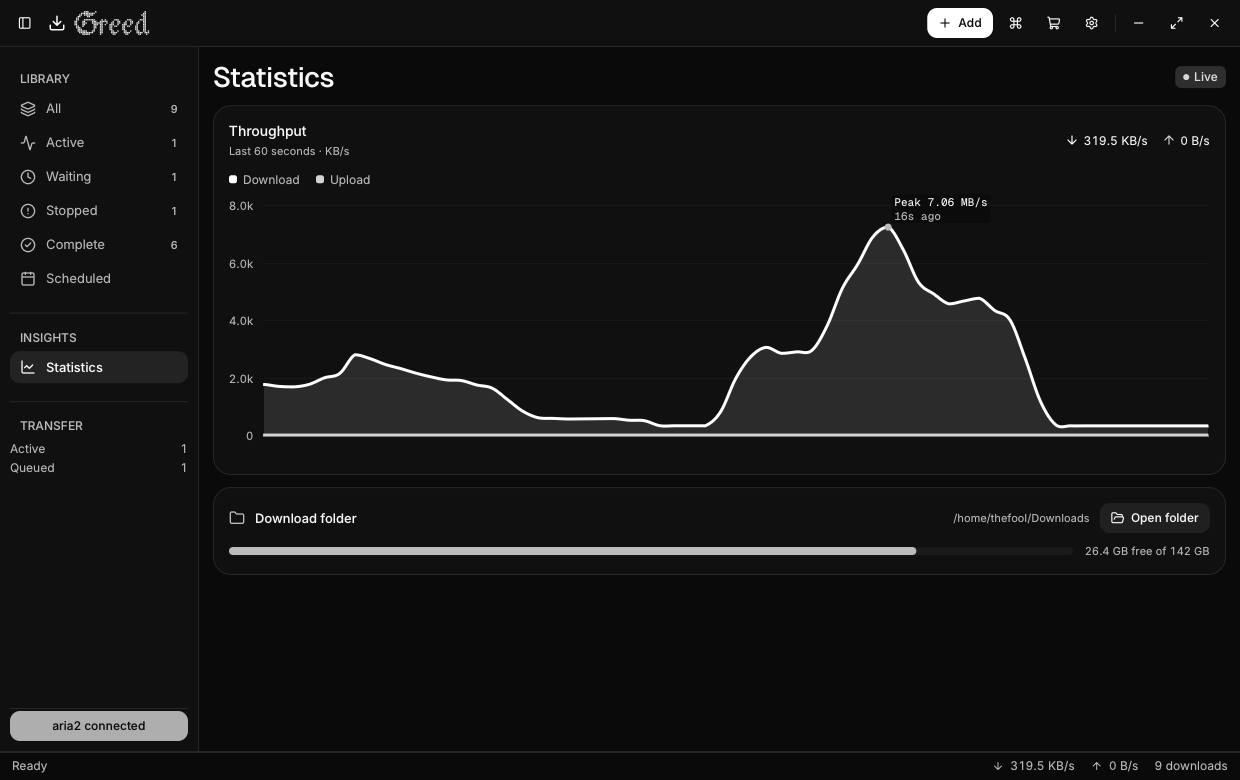
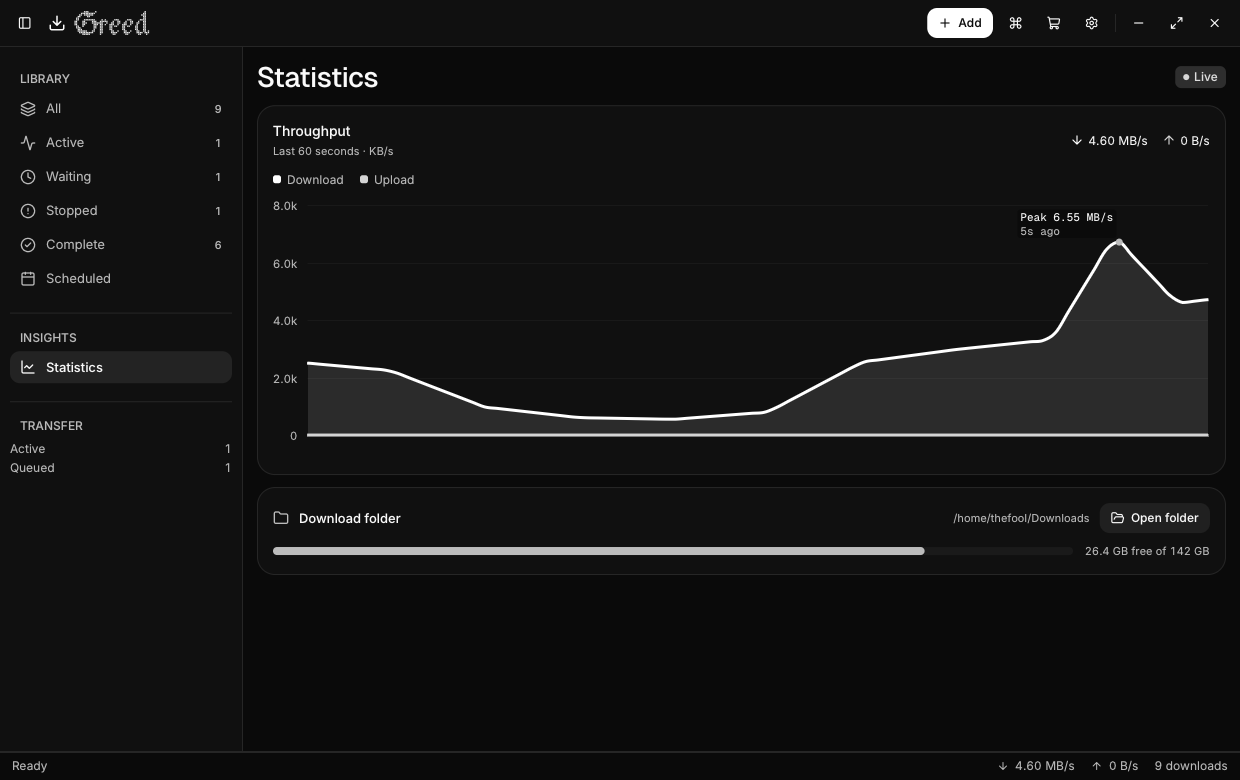
Show the aria2 status only while it is offline
The always-on solid pill was the loudest element in the sidebar for a
state that is normally healthy. Now a red outline button appears only
when the engine is down, and clicking it reconnects. Refresh the README
screenshots without the old pill.

diff --git a/src/ui.c b/src/ui.c
@@ -100,7 +100,6 @@ typedef struct {
     int fade_count;
     int page_key;
     float page_fade;
-    float conn_fade;
     bool show_palette;
     bool show_remove;
     int font_pick;
@@ -1516,9 +1515,8 @@ static void sidebar(App *a, cui_ctx *ui, float width) {
     bool mac = mac_chrome(a);
     bool glass = mac_glass(a);
     GlassPaint g = glass_fill(a, ui);
-    /* The bright engine pill is the only thing left visible in a very narrow
-     * panel, so fade the contents out at the end instead of letting it sit
-     * there as a lit sliver after the labels are clipped away. */
+    /* Fade the contents out in a very narrow panel instead of letting them
+     * sit there as a lit sliver after the labels are clipped away. */
     float fade = (width - 70.0f) / 70.0f;
     if (fade > 1.0f) fade = 1.0f;
     if (fade < 0.02f) fade = 0.02f;   /* 0 would mean fully opaque */
@@ -1571,22 +1569,19 @@ static void sidebar(App *a, cui_ctx *ui, float width) {
                     cui_text(ui, num, .size = 12, .color = CUI_COLOR_TEXT_SECONDARY, .tabular = true);
                 }
             }
-            cui_separator(ui);
-            /* Solid status pill; the fill itself fades when the engine comes or goes. */
-            float dt = cui_delta_time(ui);
-            float speed = a->show_settings ? a->edit.motion_speed : a->cfg.motion_speed;
-            float step = 1.0f - expf(-dt * 10.0f * speed);
-            a->conn_fade += ((a->connected ? 1.0f : 0.0f) - a->conn_fade) * step;
-            cui_color engine_bg = cui_mix(cui_color_of(ui, CUI_COLOR_DANGER),
-                                          cui_color_of(ui, CUI_COLOR_SUCCESS), a->conn_fade);
-            engine_bg = cui_mix(engine_bg, cui_color_of(ui, CUI_COLOR_SURFACE), 0.18f);
-            if (cui_button(ui, a->connected ? "aria2 connected" : "aria2 offline",
-                           .variant = CUI_BUTTON_GHOST, .size = CUI_SIZE_SM, .full_width = true,
-                           .background = engine_bg, .color = CUI_COLOR_BACKGROUND)) {
-                if (!a->connected && a->cfg.auto_start_aria2)
-                    aria2_ensure_running(&a->cfg, true);
-                a->last_poll = 0;
-                set_status(a, a->connected ? "Connection refreshed" : "Reconnecting to aria2…");
+            /* Only surface the engine when it is down: a quiet green status
+             * every day would draw the eye for no reason. */
+            if (!a->connected) {
+                cui_separator(ui);
+                if (cui_button(ui, "aria2 offline · Reconnect",
+                               .variant = CUI_BUTTON_OUTLINE, .size = CUI_SIZE_SM,
+                               .full_width = true, .icon = CUI_ICON_REFRESH_CW,
+                               .color = CUI_COLOR_DANGER,
+                               .tooltip = "Start aria2 and reconnect")) {
+                    if (a->cfg.auto_start_aria2) aria2_ensure_running(&a->cfg, true);
+                    a->last_poll = 0;
+                    set_status(a, "Reconnecting to aria2…");
+                }
             }
         }
     }
@@ -3977,9 +3972,7 @@ static void frame(cui_ctx *ui, void *user) {
     poll_clipboard(a, ui);
     cui_request_wakeup(ui, 0.8f);
     /* Our fades and the drag band are not CUI tweens, so keep frames coming. */
-    bool animating = a->page_fade < 0.999f || a->drag_active ||
-                     (a->sidebar_open &&
-                      fabsf(a->conn_fade - (a->connected ? 1.0f : 0.0f)) > 0.01f);
+    bool animating = a->page_fade < 0.999f || a->drag_active;
     for (int i = 0; i < a->fade_count && !animating; i++)
         if (a->fade[i].v < 0.99f) animating = true;
     if (animating) cui_request_wakeup(ui, 1.0f / 60.0f);
